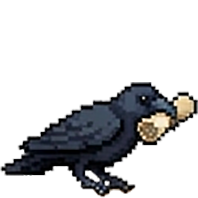
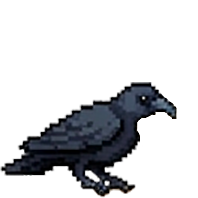
Scrolls: merge into /chat (real delivery, fly-in on open, char-counter font); updated crow_send 00-02

Changed region(s): [[0.6667, 0.4545, 1.0, 0.7576], [0.4848, 0.9394, 0.5152, 1.0]]

diff --git a/frontend/src/pages/MessagesPage.jsx b/frontend/src/pages/MessagesPage.jsx
@@ -10,6 +10,12 @@ import { useBasket } from '../lib/BasketContext.jsx';
 import { useTheme } from '../lib/ThemeContext.jsx';
 const LazyStoryViewer = lazy(() => import('../components/stories/StoryViewer.jsx'));
 import SliderSticker from '../components/stories/SliderSticker.jsx';
+import { useScrolls } from '../components/scrolls/useScrolls.js';
+import ScrollComposeModal from '../components/scrolls/ScrollComposeModal.jsx';
+import ScrollsListModal from '../components/scrolls/ScrollsListModal.jsx';
+import CrowAnimationLayer from '../components/scrolls/CrowAnimationLayer.jsx';
+import ScrollBranch from '../components/scrolls/ScrollBranch.jsx';
+import LandingPerch from '../components/scrolls/LandingPerch.jsx';
 
 const POLL_MS = 8000;
 const DOUBLE_TAP_MS = 240;
@@ -1405,6 +1411,32 @@ export default function MessagesPage() {
   const { user } = useAuth();
   const { refresh: refreshBasket } = useBasket();
   const { theme } = useTheme();
+
+  // ── Scrolls (raven messages) ──
+  const scrolls = useScrolls();
+  const [scrollComposeOpen, setScrollComposeOpen] = useState(false);
+  const [scrollListOpen, setScrollListOpen] = useState(false);
+  const [sendStage, setSendStage] = useState('idle'); // idle | intro | perched | flight
+  const [landFlight, setLandFlight] = useState(false);
+  const scrollIntroFrames = useMemo(() => (scrolls.config.send || []).slice(0, 3), [scrolls.config.send]);
+  const scrollFlyoffFrames = useMemo(() => (scrolls.config.send || []).slice(2), [scrolls.config.send]);
+  const landIntroPlayedRef = useRef(false);
+
+  // Deep-link from the arrival push (?scrolls=1) opens the list.
+  useEffect(() => {
+    const p = new URLSearchParams(window.location.search);
+    if (p.get('scrolls') === '1') setScrollListOpen(true);
+  }, []);
+  // Fresh arrival while the chat is open → play the fly-in.
+  useEffect(() => { if (scrolls.arrivedTick > 0) setLandFlight(true); }, [scrolls.arrivedTick]);
+  // Opening the chat with unread scrolls waiting → play the fly-in once.
+  useEffect(() => {
+    if (!scrolls.loading && scrolls.unread > 0 && !landIntroPlayedRef.current) {
+      landIntroPlayedRef.current = true;
+      setLandFlight(true);
+    }
+  }, [scrolls.loading, scrolls.unread]);
+
   const [data, setData] = useState({ other: null, messages: [] });
   const [draft, setDraft] = useState('');
   const [busy, setBusy] = useState(false);
@@ -1917,8 +1949,77 @@ export default function MessagesPage() {
 
   let lastDay = null;
 
+  // Scroll config-derived values.
+  const scrollSettings = scrolls.config.settings || {};
+  const scrollFps = scrollSettings.frame_rate_fps || 12;
+  const scrollLandFrames = scrolls.config.land || [];
+  const scrollLandLast = scrollLandFrames[scrollLandFrames.length - 1];
+  const scrollLandCrowFile = scrollLandLast?.sprite_file || 'crow_land_10.png';
+  const scrollLandCrowX = scrollLandLast?.x ?? 88;
+  const scrollLandCrowY = scrollLandLast?.y ?? 50;
+  const scrollLandCrowScale = Number(scrollLandLast?.scale) || 1;
+
   return (
     <>
+      {/* ── Scrolls (raven messages) overlays ── */}
+      {scrollComposeOpen && (
+        <ScrollComposeModal
+          settings={scrollSettings}
+          onSend={(p) => scrolls.send(p)}
+          onSent={() => { setScrollComposeOpen(false); setTimeout(() => setSendStage('flight'), 500); }}
+          onClose={() => { setScrollComposeOpen(false); setSendStage('idle'); }}
+        />
+      )}
+      {scrollListOpen && (
+        <ScrollsListModal
+          scrolls={scrolls.scrolls}
+          settings={scrollSettings}
+          onRead={scrolls.markRead}
+          onClose={() => { setScrollListOpen(false); scrolls.refresh(); }}
+        />
+      )}
+      {sendStage !== 'idle' && (
+        <ScrollBranch
+          file={scrollSettings.send_branch_file}
+          x={scrollSettings.send_branch_x} y={scrollSettings.send_branch_y}
+          scale={scrollSettings.send_branch_scale} rotation={scrollSettings.send_branch_rotation}
+          opacity={scrollSettings.send_branch_opacity}
+        />
+      )}
+      {(sendStage === 'intro' || sendStage === 'perched') && (
+        <CrowAnimationLayer
+          frames={scrollIntroFrames} fps={scrollFps}
+          playing={sendStage === 'intro'} perchOnEnd
+          onComplete={() => setSendStage('perched')}
+          onFinalTap={() => setScrollComposeOpen(true)}
+        />
+      )}
+      {sendStage === 'flight' && (
+        <CrowAnimationLayer
+          frames={scrollFlyoffFrames} fps={scrollFps} playing
+          onComplete={() => setSendStage('idle')}
+        />
+      )}
+      {(scrolls.unread > 0 || landFlight) && (
+        <>
+          <LandingPerch
+            branchFile={scrollSettings.land_branch_file}
+            x={scrollSettings.land_branch_x} y={scrollSettings.land_branch_y}
+            scale={scrollSettings.land_branch_scale} rotation={scrollSettings.land_branch_rotation}
+            opacity={scrollSettings.land_branch_opacity}
+            crowFile={scrollLandCrowFile} crowX={scrollLandCrowX} crowY={scrollLandCrowY} crowScale={scrollLandCrowScale}
+            showCrow={!landFlight} count={scrolls.unread}
+            onTap={() => setScrollListOpen(true)}
+          />
+          {landFlight && (
+            <CrowAnimationLayer
+              frames={scrolls.config.land} fps={scrollFps} playing={landFlight}
+              onComplete={() => setLandFlight(false)}
+            />
+          )}
+        </>
+      )}
+
       <div className="space-y-4">
         <div className="flex items-center justify-between gap-3">
           <div className="flex items-center gap-3">
@@ -2234,6 +2335,18 @@ export default function MessagesPage() {
               ) : (
                 /* ── State 3: normal media picker ── */
                 <div className="flex items-center gap-2 overflow-x-auto pb-1">
+                  {/* Scroll (raven message) */}
+                  <button
+                    type="button"
+                    onClick={() => { setShowMedia(false); setSendStage('intro'); }}
+                    title="Send a scroll"
+                    className="flex h-10 w-10 shrink-0 items-center justify-center rounded-full border border-neutral-200 bg-white text-neutral-500 transition hover:border-amber-300 hover:text-amber-700 active:scale-95"
+                  >
+                    <svg width="18" height="18" viewBox="0 0 24 24" fill="none" stroke="currentColor" strokeWidth="1.7" strokeLinecap="round" strokeLinejoin="round">
+                      <path d="M7 4h9a2 2 0 0 1 2 2v12a2 2 0 0 1-2 2H7" /><path d="M7 4a2 2 0 0 0-2 2v12a2 2 0 0 0 2 2" />
+                      <line x1="9.5" y1="9" x2="15" y2="9" /><line x1="9.5" y1="13" x2="15" y2="13" />
+                    </svg>
+                  </button>
                   <GifButton onClick={() => { setGifOpen(true); setShowMedia(false); }} />
                   <PhotoButton onClick={() => { photoInputRef.current?.click(); setShowMedia(false); }} />
                   <MicButton recording={false} onClick={toggleRecording} />

diff --git a/frontend/src/components/scrolls/ScrollComposeModal.jsx b/frontend/src/components/scrolls/ScrollComposeModal.jsx
@@ -284,7 +284,7 @@ export default function ScrollComposeModal({ settings = {}, testMode = false, on
             className="w-full resize-none bg-transparent text-center text-xl leading-snug text-black placeholder-black/40 focus:outline-none"
             style={{ fontFamily: font, whiteSpace: 'pre-wrap' }}
           />
-          <div className="w-full text-center text-[10px] text-black/50">{body.replace(/\n/g, '').length}/{MAX_TOTAL}</div>
+          <div className="w-full text-center text-[11px] text-black/50" style={{ fontFamily: font }}>{body.replace(/\n/g, '').length}/{MAX_TOTAL}</div>
 
           <div className="flex-1" />
 
